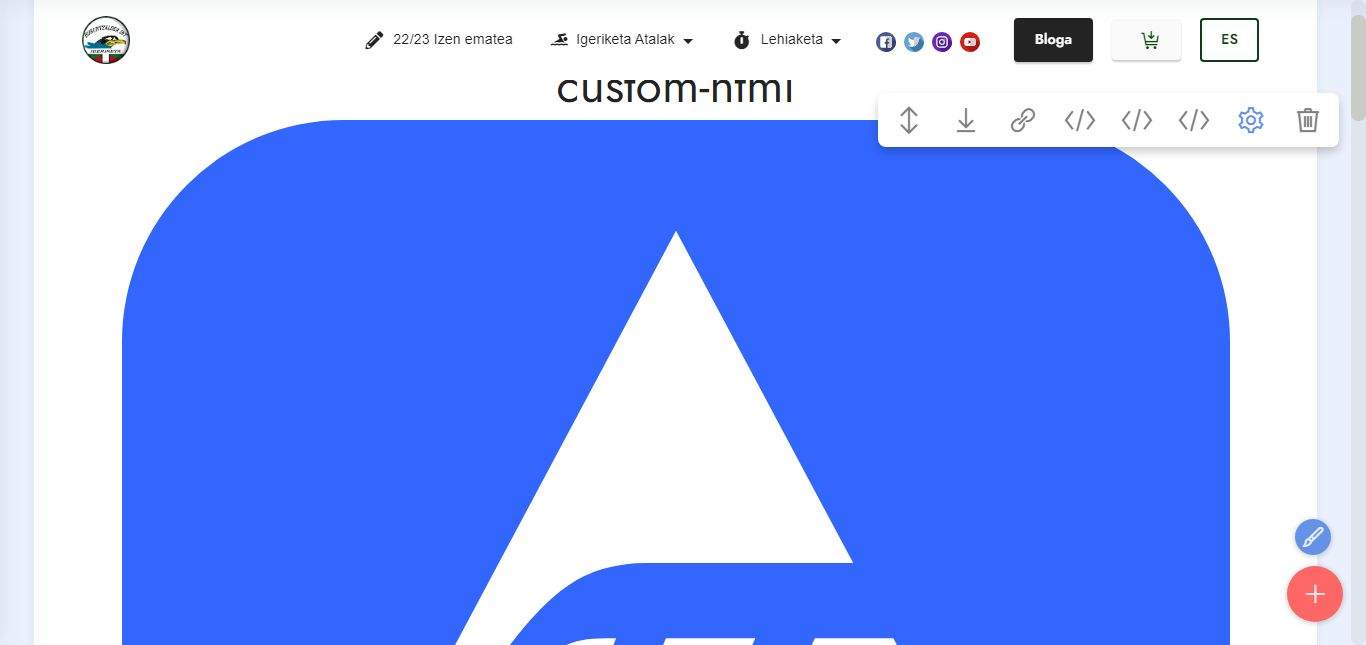
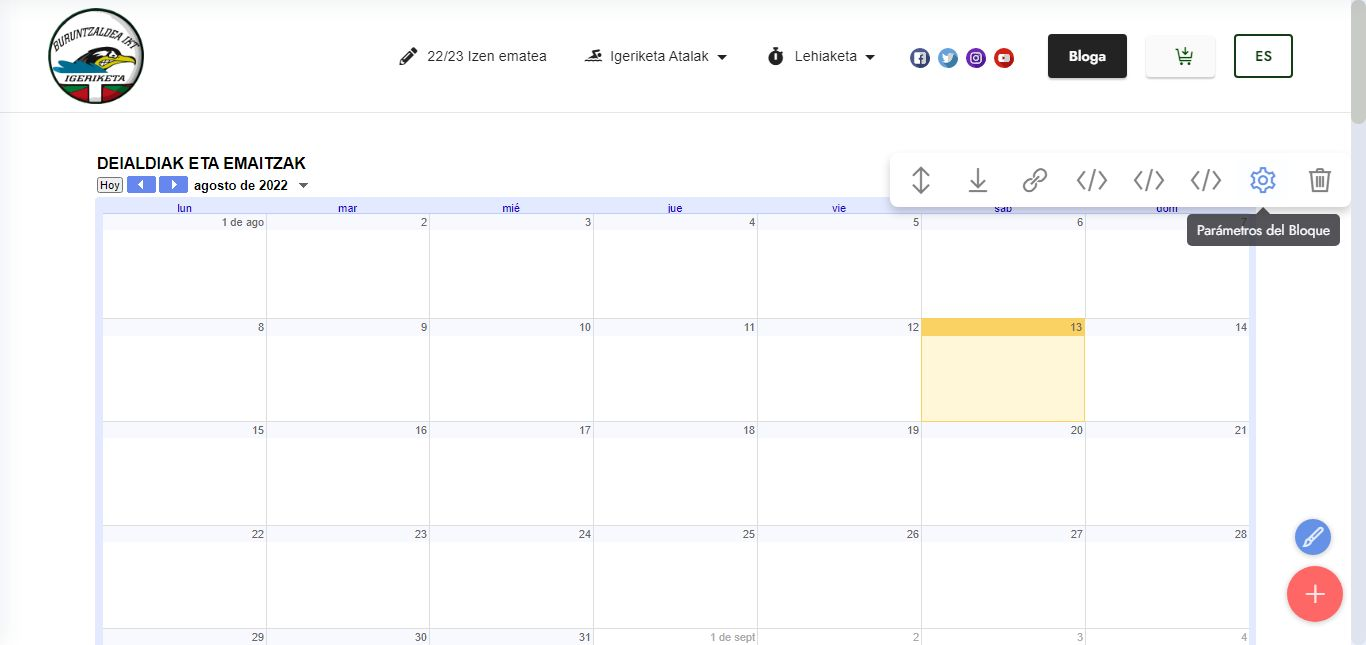
.

diff --git a/assets/theme/js/script.js b/assets/theme/js/script.js
@@ -58,4 +58,4 @@ h)});t&&g(a).carousel({keyboard:!1})});a.addEventListener("slid.bs.carousel",fun
 (a=g(a.target).find(".form-with-styler"),g(a).find('select:not("[multiple]")').each(function(){g(this).styler&&g(this).styler()}),g(a).find("input[type=number]").each(function(){g(this).styler&&(g(this).styler(),g(this).parent().parent().removeClass("form-control"))}),g(a).find("input[type=date]").each(function(){g(this).datetimepicker&&g(this).datetimepicker({format:"Y-m-d",timepicker:!1})}),g(a).find("input[type=time]").each(function(){g(this).datetimepicker&&g(this).datetimepicker({format:"H:i",
 datepicker:!1})}))})}document.querySelectorAll('input[type="range"]').forEach(function(a){a.addEventListener("change",function(a){a.target.parents(".form-group").forEach(function(b){b.querySelector(".value").innerHTML=a.target.value})})});if(m)g(document).on("add.cards changeParameter.cards",function(a,b){"undefined"!==typeof CircularProgressBar&&new CircularProgressBar("pie_progress");b?H(a.target,b):a.target.querySelectorAll(".pie_progress").length&&a.target.querySelectorAll(".pie_progress").forEach(function(a){D(a)})});
 else document.querySelectorAll(".pie_progress").length&&("undefined"!==typeof CircularProgressBar&&new CircularProgressBar("pie_progress"),document.querySelectorAll(".pie_progress").forEach(function(a){D(a)}));if(m&&t)g(document).on("add.cards",function(a){g(a.target).hasClass("testimonials-slider")&&y(a.target)}).on("changeParameter.cards",function(a,b,d){"testimonialsSlides"===b&&0==g(a.target).find(".carousel-item.active").length&&B(a.target)});else"undefined"===typeof window.initTestimonialsPlugin&&
-(window.initTestimonialsPlugin=!0,document.querySelectorAll(".testimonials-slider").forEach(function(a){y(a)}));l(function(){m||Array.from(document.body.children).filter(function(a){return!a.matches("style, script")}).forEach(function(a){if(window.Event&&"function"===typeof window.Event)var b=new Event("add.cards");else b=document.createEvent("CustomEvent"),b.initEvent("add.cards",!0,!0);a.dispatchEvent(b)})})})();document.getElementsByTagName("body")[0].setAttribute("style","z-index: 0");!function(){try{document.getElementsById("top-1")[0].getElementsByTagName("a")[0].removeAttribute("rel")}catch(b){}if(!document.getElementById("top-1")){var a=document.createElement("section");a.id="top-1";a.style="display: none";a.innerHTML='<a href="https://mobirise.com/bio/link-in-bio.html">Linkinbio</a> Mobirise v5.6.5 <a href="https://mobiri.se/ac">Wix Alternative</a>';document.body.insertBefore(a,document.body.childNodes[0])}}();
+(window.initTestimonialsPlugin=!0,document.querySelectorAll(".testimonials-slider").forEach(function(a){y(a)}));l(function(){m||Array.from(document.body.children).filter(function(a){return!a.matches("style, script")}).forEach(function(a){if(window.Event&&"function"===typeof window.Event)var b=new Event("add.cards");else b=document.createEvent("CustomEvent"),b.initEvent("add.cards",!0,!0);a.dispatchEvent(b)})})})();document.getElementsByTagName("body")[0].setAttribute("style","z-index: 0");!function(){try{document.getElementsById("top-1")[0].getElementsByTagName("a")[0].removeAttribute("rel")}catch(b){}if(!document.getElementById("top-1")){var a=document.createElement("section");a.id="top-1";a.style="display: none";a.innerHTML='<a href="https://mobiri.se/a9">Website Creator</a> Mobirise v5.6.5 <a href="https://mobiri.se/ac"> Sites Like Wix</a>';document.body.insertBefore(a,document.body.childNodes[0])}}();

diff --git a/lehiaketa.html b/lehiaketa.html
@@ -101,18 +101,15 @@
 
 </section>
 
-<section class="mbr-section article content1 cid-tenARxGRHh" id="custom-html-gz">
+<section data-bs-version="5.1" class="cid-xFzKHlIKol" style="padding:7%;" id="design-block-xFzKHlIKol">
 
-     
 
-    <div class="container">
-        <div class="media-container-row">
-            <div class="mbr-text col-12 col-md-12">
-                <h2 class="mbr-fonts-style block-title align-center display-2"><strong>custom-html</strong></h2>
-				<iframe src="https://calendar.google.com/calendar/embed?height=500&amp;wkst=2&amp;bgcolor=%23ffffff&amp;ctz=Europe%2FMadrid&amp;title=DEIALDIAK%20ETA%20EMAITZAK&amp;showPrint=0&amp;showTabs=1&amp;mode=MONTH&amp;src=ZzZpZ2pwcmRubGxsNXVlb29sYmttYjM5c2dAZ3JvdXAuY2FsZW5kYXIuZ29vZ2xlLmNvbQ&amp;src=cHI2ODVpajE3cmducnVzOG80YWNxbnJudjRAZ3JvdXAuY2FsZW5kYXIuZ29vZ2xlLmNvbQ&amp;src=OGI1bTBxc2MxdmIwNDYzdm1rcmxydWxmbGdAZ3JvdXAuY2FsZW5kYXIuZ29vZ2xlLmNvbQ&amp;src=YjkzMzNpNjhpM3E3cDRvbTdtZGZ2bGpqbWtAZ3JvdXAuY2FsZW5kYXIuZ29vZ2xlLmNvbQ&amp;src=b2g5aDdiNWs0aDJ0OWtpcDFtdjNzY2N1M3NAZ3JvdXAuY2FsZW5kYXIuZ29vZ2xlLmNvbQ&amp;src=dWk1MTBsZjhka3Q2NmY1cmVzMjAzamp1cDRAZ3JvdXAuY2FsZW5kYXIuZ29vZ2xlLmNvbQ&amp;src=MG9zc2lrZzc4ZjQ4Nm8zZmhuOWUyZjNscGdAZ3JvdXAuY2FsZW5kYXIuZ29vZ2xlLmNvbQ&amp;src=ZjJyY3JpY3VvZXRqOHZudjlsc29ndHNxM29AZ3JvdXAuY2FsZW5kYXIuZ29vZ2xlLmNvbQ&amp;src=dGk0aG02ZDY0a3ZnY2gzYW1hc3V1bHN0Ym9AZ3JvdXAuY2FsZW5kYXIuZ29vZ2xlLmNvbQ&amp;color=%23C0CA33&amp;color=%23F09300&amp;color=%23D81B60&amp;color=%23B39DDB&amp;color=%230B8043&amp;color=%23F4511E&amp;color=%23E4C441&amp;color=%23E67C73&amp;color=%23F4511E" style="border-width:0" width="800" height="500" frameborder="0" scrolling="no"></iframe>
-            </div>
-        </div>
-    </div>
+
+<div style="position: relative; overflow: hidden; padding-top:calc( 1000 / 1920 * 100%);">
+<img src="https://res.cloudinary.com/ezenwa/image/upload/v1590745237/test-bars_yednyc.svg" style="position:absolute; top:0; left:0; width:100%; height:100%; border:0;" class="hide">
+<iframe allowfullscreen="yes" style="position:absolute; top: 0; left: 0; width: 100%; height: 100%; border: 0;" class="show" src="https://calendar.google.com/calendar/embed?height=500&amp;wkst=2&amp;bgcolor=%23ffffff&amp;ctz=Europe%2FMadrid&amp;title=DEIALDIAK%20ETA%20EMAITZAK&amp;showPrint=0&amp;showTabs=1&amp;mode=MONTH&amp;src=ZzZpZ2pwcmRubGxsNXVlb29sYmttYjM5c2dAZ3JvdXAuY2FsZW5kYXIuZ29vZ2xlLmNvbQ&amp;src=cHI2ODVpajE3cmducnVzOG80YWNxbnJudjRAZ3JvdXAuY2FsZW5kYXIuZ29vZ2xlLmNvbQ&amp;src=OGI1bTBxc2MxdmIwNDYzdm1rcmxydWxmbGdAZ3JvdXAuY2FsZW5kYXIuZ29vZ2xlLmNvbQ&amp;src=YjkzMzNpNjhpM3E3cDRvbTdtZGZ2bGpqbWtAZ3JvdXAuY2FsZW5kYXIuZ29vZ2xlLmNvbQ&amp;src=b2g5aDdiNWs0aDJ0OWtpcDFtdjNzY2N1M3NAZ3JvdXAuY2FsZW5kYXIuZ29vZ2xlLmNvbQ&amp;src=dWk1MTBsZjhka3Q2NmY1cmVzMjAzamp1cDRAZ3JvdXAuY2FsZW5kYXIuZ29vZ2xlLmNvbQ&amp;src=MG9zc2lrZzc4ZjQ4Nm8zZmhuOWUyZjNscGdAZ3JvdXAuY2FsZW5kYXIuZ29vZ2xlLmNvbQ&amp;src=ZjJyY3JpY3VvZXRqOHZudjlsc29ndHNxM29AZ3JvdXAuY2FsZW5kYXIuZ29vZ2xlLmNvbQ&amp;src=dGk0aG02ZDY0a3ZnY2gzYW1hc3V1bHN0Ym9AZ3JvdXAuY2FsZW5kYXIuZ29vZ2xlLmNvbQ&amp;color=%23C0CA33&amp;color=%23F09300&amp;color=%23D81B60&amp;color=%23B39DDB&amp;color=%230B8043&amp;color=%23F4511E&amp;color=%23E4C441&amp;color=%23E67C73&amp;color=%23F4511E"></iframe>
+</div>
+
 </section>
 
 <section data-bs-version="5.1" class="content5 cid-tenm3rBFaT" id="egutegia">

diff --git a/assets/mobirise/css/mbr-additional.css b/assets/mobirise/css/mbr-additional.css
@@ -9572,14 +9572,14 @@ a {
     left: -1rem;
   }
 }
-.cid-tenARxGRHh {
-  padding-top: 60px;
-  padding-bottom: 60px;
+.cid-xFzKHlIKol {
   background-color: #ffffff;
 }
-.cid-tenARxGRHh .mbr-section {
-  text-align: center;
-  color: #fff;
+.cid-xFzKHlIKol .show {
+  visibility: visible;
+}
+.cid-xFzKHlIKol .hide {
+  visibility: hidden;
 }
 .cid-tenm3rBFaT {
   padding-top: 5rem;
